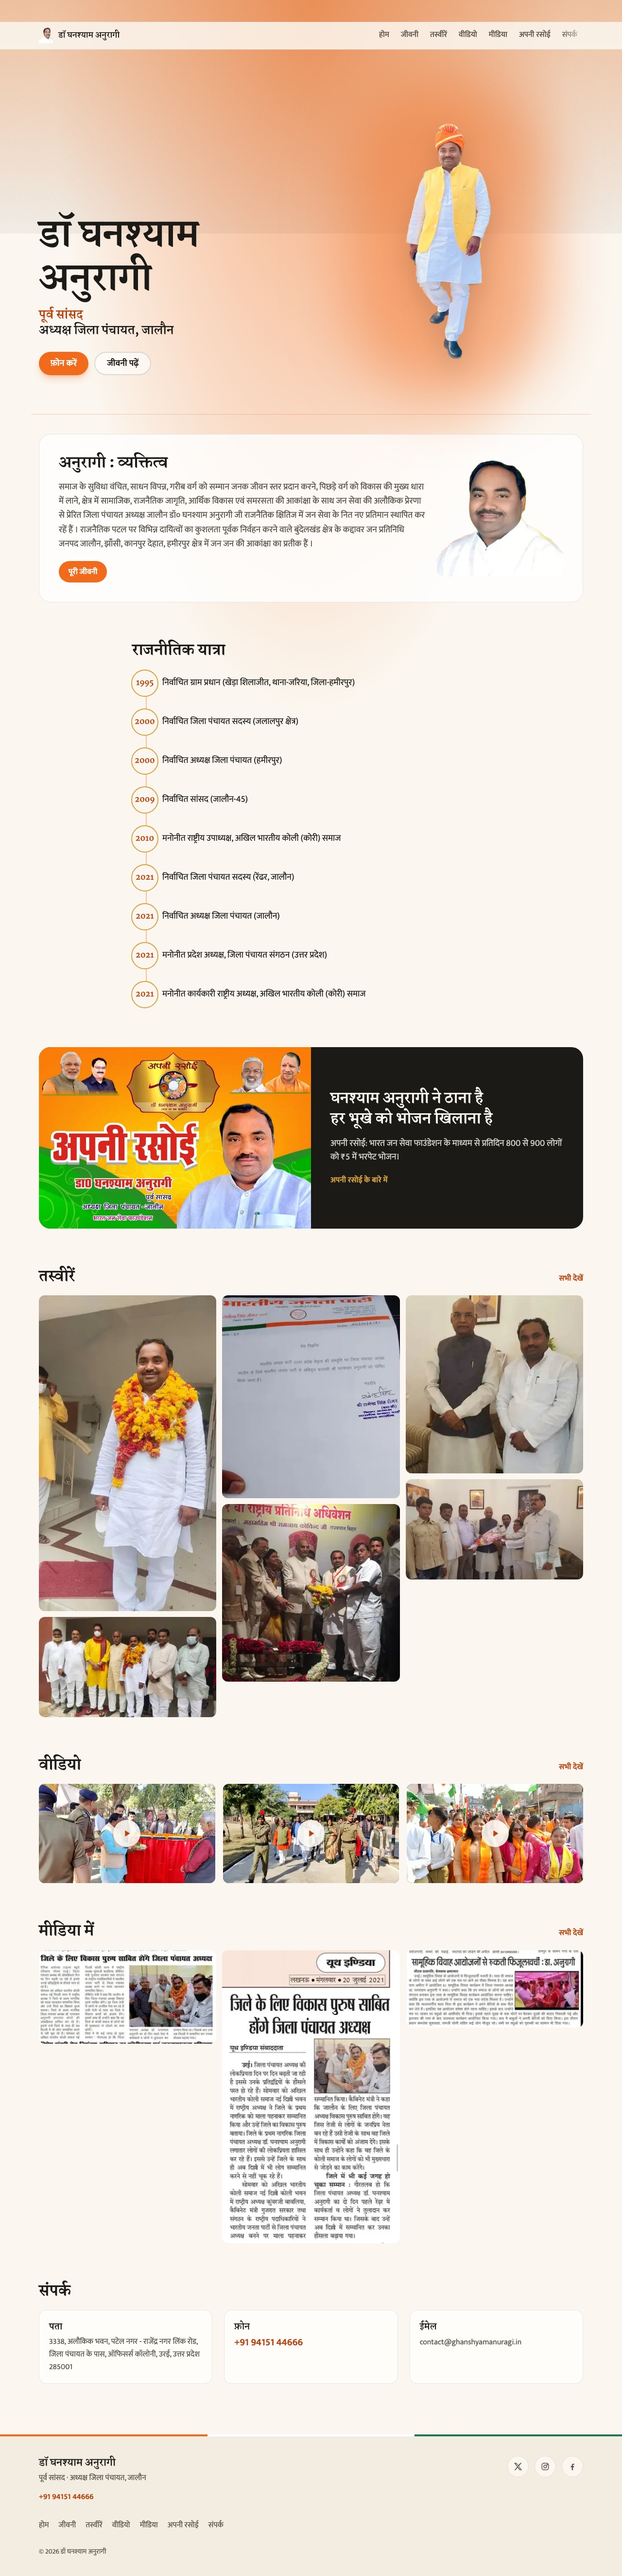
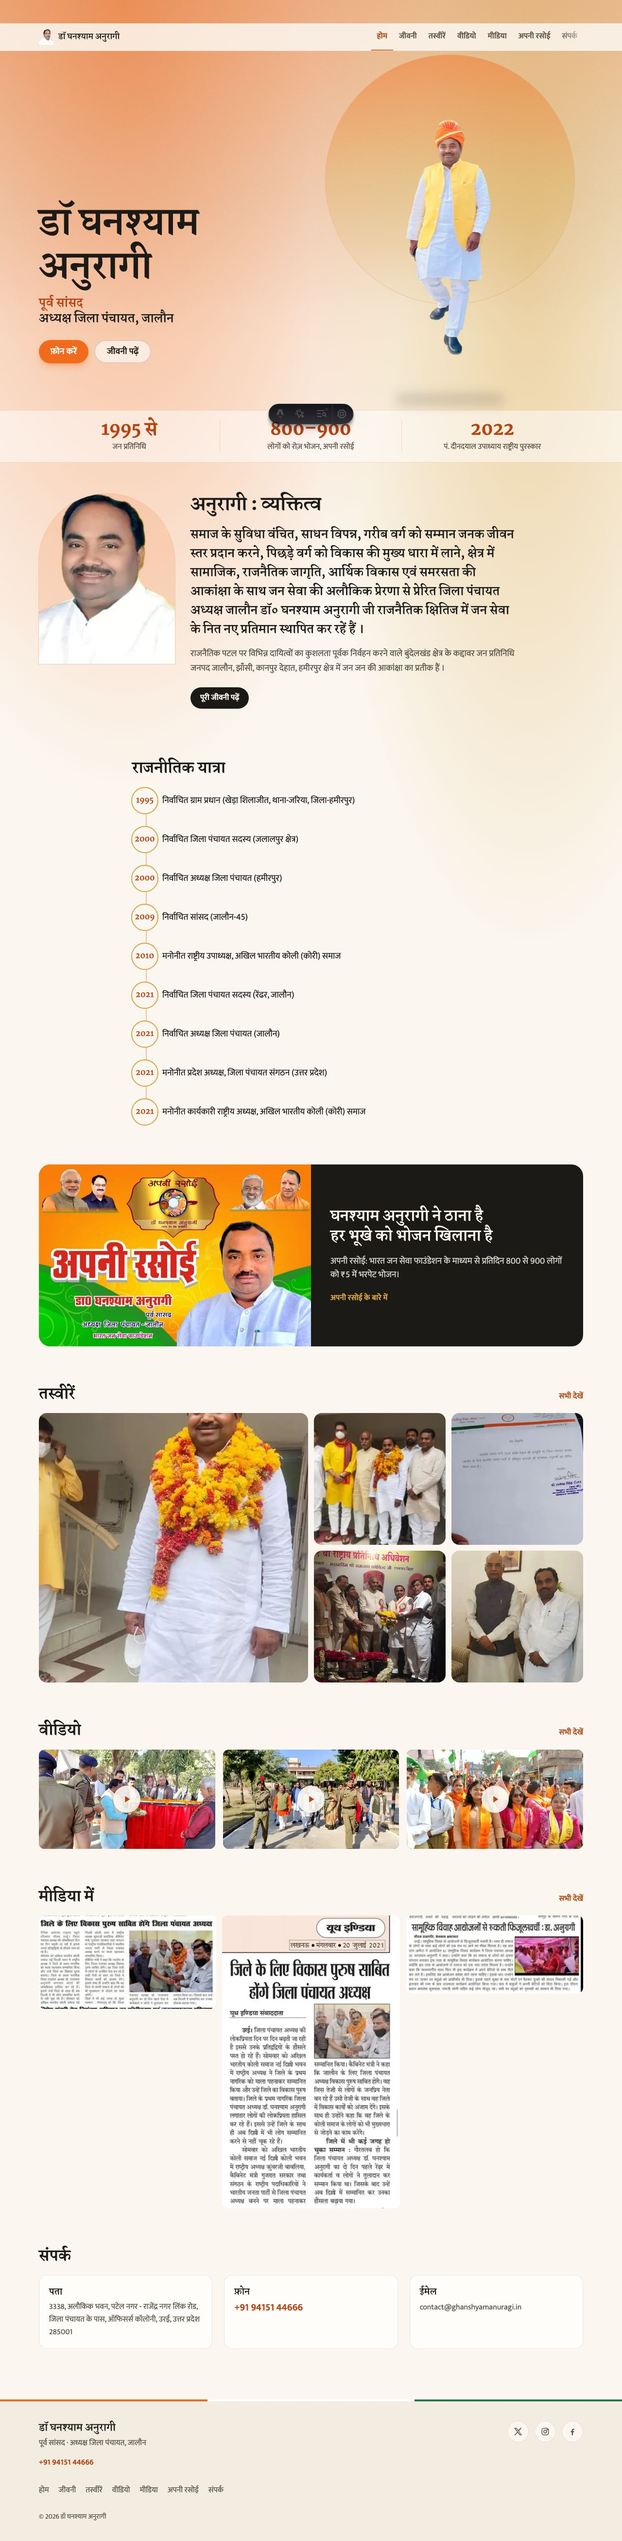
design: hero sun disc and ground, facts ribbon, editorial bio, bento gallery; grain fades instead of cutting

diff --git a/src/data/site.ts b/src/data/site.ts
@@ -46,6 +46,13 @@ export const timeline = [
   { year: 2021, text: "मनोनीत कार्यकारी राष्ट्रीय अध्यक्ष, अखिल भारतीय कोली (कोरी) समाज" },
 ];
 
+// Three facts from the biography text, nothing invented.
+export const facts = [
+  { value: "1995 से", label: "जन प्रतिनिधि" },
+  { value: "800–900", label: "लोगों को रोज़ भोजन, अपनी रसोई" },
+  { value: "2022", label: "पं. दीनदयाल उपाध्याय राष्ट्रीय पुरस्कार" },
+];
+
 export const rasoi = {
   slogan: ["घनश्याम अनुरागी ने ठाना है", "हर भूखे को भोजन खिलाना है"],
   // First paragraph is the Chanakya shloka (two lines).
